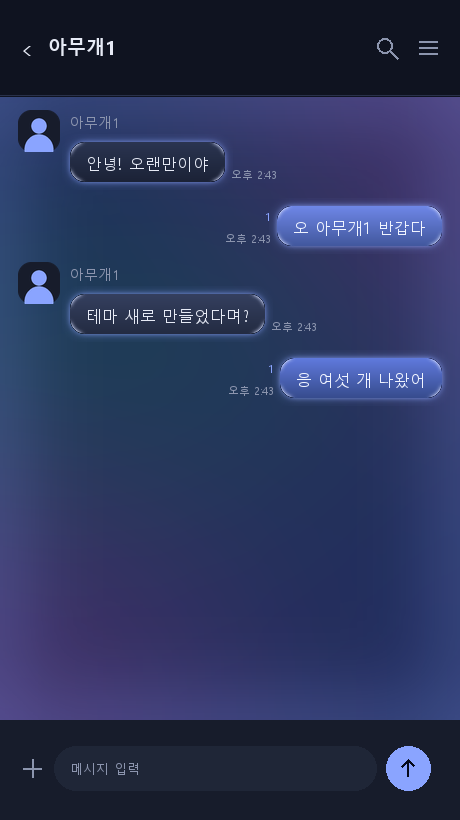
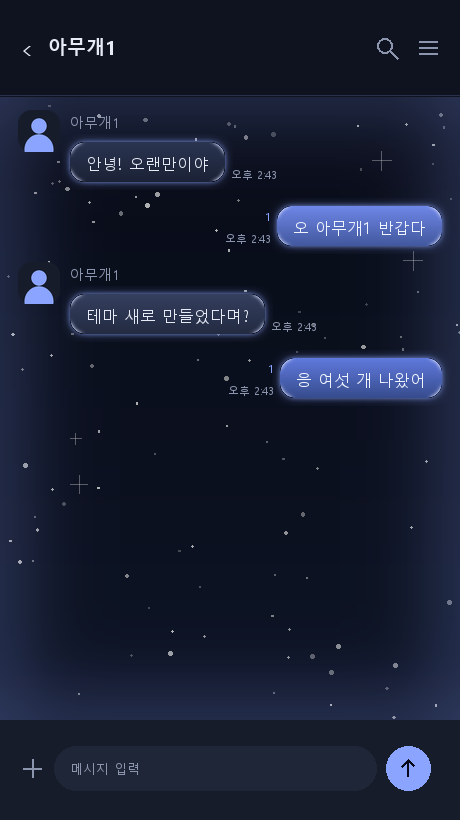
심야 배경을 색면에서 그림으로 바꾼다
배경 이미지라고 해놓고 흐린 색면을 깔고 있었다. 그림을 기대하는 게 당연한데
그라데이션만 있었다.

밤하늘을 그린다. 별을 뿌리고 밝은 몇 개에는 십자 광채를 주고, 초승달에 달무리를
얹고, 능선을 세 겹으로 깐다. 사진은 저작권 때문에 못 쓰니 코드로 그린다.

시드를 고정했다. 안 그러면 빌드할 때마다 별자리가 바뀌어서 diff 가 매번 더러워진다.

화면마다 다르게 쓴다. 잠금화면은 글자가 적으니 달과 능선까지 다 그리고, 채팅방과
목록은 말풍선과 글자가 얹히므로 별만 두고 어둡게 덮는다.

diff --git a/tools/gen.py b/tools/gen.py
@@ -11,6 +11,7 @@ iOS 와 안드로이드는 같은 그림을 다른 형식으로 요구한다.
   Android 9-patch 한 장. 늘어나는 범위를 이미지 1픽셀 테두리에 그려 넣는다.
 """
 import os
+import random
 import re
 import shutil
 import sys
@@ -204,8 +205,93 @@ def splash(t, w, h):
     return Image.alpha_composite(img, glow).convert('RGB')
 
 
+def scene_night(spec, w, h):
+    """밤하늘. 별과 달과 능선을 그린다.
+
+    사진을 가져다 쓸 수 없으니(저작권) 코드로 그린다.
+    시드를 고정한다 — 안 그러면 빌드할 때마다 별자리가 바뀌어서 diff 가 매번 더러워진다.
+
+    spec = ('night', 위색, 아래색, 옵션dict)
+      moon   달 색. None 이면 안 그림
+      ridge  능선 색. None 이면 안 그림
+      stars  별 개수
+      dim    0~1. 클수록 어둡게 덮는다. 글자가 얹히는 화면은 올린다
+    """
+    o = spec[3] if len(spec) > 3 else {}
+    img = vgradient(w, h, rgb(spec[1]), rgb(spec[2])).convert('RGB')
+    d = ImageDraw.Draw(img, 'RGBA')
+    rnd = random.Random(20260912)
+    unit = w / 500.0
+
+    horizon = h * (0.72 if o.get('ridge') else 1.0)
+    for _ in range(o.get('stars', 220)):
+        x, y = rnd.random() * w, rnd.random() * horizon
+        # 위쪽일수록 촘촘하게 보이도록 아래쪽 별은 솎아낸다
+        if rnd.random() < (y / horizon) * 0.5:
+            continue
+        r = rnd.choice([0.6, 0.7, 0.9, 1.1, 1.5, 2.0]) * unit
+        a = rnd.randint(70, 240)
+        d.ellipse([x - r, y - r, x + r, y + r], fill=(255, 255, 255, a))
+
+    # 밝은 별 몇 개에는 십자 광채를 준다. 전부 주면 지저분하다
+    for _ in range(o.get('glints', 7)):
+        x, y = rnd.random() * w, rnd.random() * horizon * 0.8
+        L = rnd.uniform(5, 11) * unit
+        for dx, dy in ((L, 0), (0, L)):
+            d.line([(x - dx, y - dy), (x + dx, y + dy)], fill=(255, 255, 255, 110),
+                   width=max(1, int(unit)))
+
+    moon = o.get('moon')
+    if moon:
+        mx, my = w * o.get('moon_x', 0.72), h * o.get('moon_y', 0.17)
+        mr = w * o.get('moon_r', 0.085)
+        halo = Image.new('RGBA', (w, h), (0, 0, 0, 0))
+        hd = ImageDraw.Draw(halo)
+        for i in range(40, 0, -1):
+            rr = mr * (1 + i * 0.14)
+            hd.ellipse([mx - rr, my - rr, mx + rr, my + rr],
+                       fill=rgb(moon) + (int(30 * (1 - i / 40) ** 2),))
+        img = Image.alpha_composite(img.convert('RGBA'), halo).convert('RGB')
+        d = ImageDraw.Draw(img, 'RGBA')
+
+        disc = Image.new('RGBA', (w, h), (0, 0, 0, 0))
+        dd = ImageDraw.Draw(disc)
+        dd.ellipse([mx - mr, my - mr, mx + mr, my + mr], fill=rgb(moon) + (255,))
+        if o.get('crescent', True):
+            # 살짝 겹친 원으로 지워서 초승달을 만든다
+            off = mr * 0.55
+            dd.ellipse([mx - mr + off, my - mr - off * 0.3,
+                        mx + mr + off, my + mr - off * 0.3], fill=(0, 0, 0, 0))
+        img = Image.alpha_composite(img.convert('RGBA'), disc).convert('RGB')
+        d = ImageDraw.Draw(img, 'RGBA')
+
+    ridge = o.get('ridge')
+    if ridge:
+        for layer, (base_y, shade, seed) in enumerate(
+                ((0.80, 0.55, 3), (0.88, 0.28, 9), (0.95, 0.0, 17))):
+            r2 = random.Random(seed)
+            pts = [(0, h)]
+            x = 0.0
+            y = h * base_y
+            while x < w:
+                x += w * r2.uniform(0.06, 0.16)
+                y = h * base_y + h * r2.uniform(-0.055, 0.055)
+                pts.append((min(x, w), y))
+            pts += [(w, h)]
+            c = rgb(ridge)
+            c = tuple(round(v + (255 - v) * shade * 0.12) for v in c)
+            d.polygon(pts, fill=c + (255,))
+
+    dim = o.get('dim', 0.0)
+    if dim:
+        img = Image.blend(img, Image.new('RGB', (w, h), (0, 0, 0)), dim)
+    return img
+
+
 def chat_bg(spec, w, h):
     kind = spec[0]
+    if kind == 'night':
+        return scene_night(spec, w, h)
     if kind == 'linear':
         return vgradient(w, h, rgb(spec[1]), rgb(spec[2]))
     if kind == 'blobs':

diff --git a/tools/themes.py b/tools/themes.py
@@ -38,7 +38,7 @@ chat_bg
   None 이면 단색. ('linear', 위, 아래) 또는 ('aurora', 바탕, [색...]) 이면 이미지를 그린다.
 """
 
-VERSION = '0.12'
+VERSION = '0.13'
 
 THEMES = [
     dict(
@@ -141,7 +141,7 @@ THEMES = [
     ),
     dict(
         key='midnight11', name='심야',
-        note='배경 이미지를 세 화면에 다 깐 테마. 목록·채팅방·잠금화면이 각각 다름',
+        note='밤하늘을 그려 넣은 테마. 잠금화면에 달과 능선이 나옴',
         bg='#0F1320', bg_deep='#080B14', surface='#171C2B', pressed='#1F2637',
         border='#29314A', text='#E6EAF5', subtext='#8C95AE',
         accent='#8AA4FF', accent_dim='#5C76D6', on_accent='#060A1A',
@@ -149,9 +149,15 @@ THEMES = [
         recv=('#2A3450', '#1B2236'), recv_alt=('#343F5E', '#232B42'),
         send_text='#F0F4FF', recv_text='#E6EAF5',
         glow=('#8AA4FF', 130, 8),
-        chat_bg=('blobs', '#080B14', ['#2A3A7A', '#5B3E8C', '#1E5A6E']),
-        main_bg=('linear', '#0F1320', '#161C2E'),
-        passcode_bg=('blobs', '#060912', ['#3B4FA0', '#6A4AA0', '#204F63']),
+        # 잠금화면은 글자가 적으니 달과 능선까지 다 그린다.
+        # 채팅방은 말풍선이 얹히므로 별만 두고 어둡게 덮는다.
+        chat_bg=('night', '#0B1020', '#121A30',
+                 dict(stars=150, glints=4, moon=None, ridge=None, dim=0.25)),
+        main_bg=('night', '#0D1222', '#151B2E',
+                 dict(stars=110, glints=3, moon=None, ridge=None, dim=0.35)),
+        passcode_bg=('night', '#070B18', '#16203C',
+                     dict(stars=260, glints=8, moon='#E8ECFF', ridge='#05070F',
+                          moon_x=0.74, moon_y=0.16, moon_r=0.09)),
     ),
 ]
 

diff --git a/docs/spec.md b/docs/spec.md
@@ -92,11 +92,15 @@
 | **색 덩어리 배경** | 큰 원을 뿌리고 크게 흐림 (`blobs`) | 유리 둘 |
 | **선형 배경** | 위아래 두 색 (`linear`) | 벚꽃, 캔디 팝 |
 | **오로라 배경** | 색 띠를 겹치고 크게 흐림 (`aurora`) | 오로라 |
+| **밤하늘 그림** | 별·십자 광채·초승달·능선을 직접 그림 (`night`) | 심야 |
 | **가장자리 빛** | 화면 테두리에서 안쪽으로 번지는 빛 | 글로우 있는 테마 |
 | **네 칸 다른 색** | 보통/눌림/그룹 칸에 서로 다른 색 | 믹스드, 캔디 팝 |
 
+배경은 두 갈래임 — **색면**(`linear` / `blobs` / `aurora`)과 **그림**(`night`).
+사진은 저작권 때문에 못 씀. 필요한 그림은 코드로 그림. 시드를 고정해서 빌드할 때마다 바뀌지 않게 함.
+
 아직 안 해본 것: **패턴·질감**(격자·노이즈·도트), **테두리만 있는 말풍선**(속 비우기),
-**꼬리 달린 말풍선**, **그림자**.
+**꼬리 달린 말풍선**, **그림자**, 밤하늘 말고 다른 **그림**(바다·숲·도시 실루엣 등).
 
 ---
 

diff --git a/README.md b/README.md
@@ -51,7 +51,7 @@
 </tr>
 <tr>
 <td align="center"><b><a href="#리퀴드-글래스-다크">리퀴드 글래스 다크</a></b><br>같은 유리를 어두운 쪽으로. 빛이 유리 모서리에만 걸림</td>
-<td align="center"><b><a href="#심야">심야</a></b><br>배경 이미지를 세 화면에 다 깐 테마. 목록·채팅방·잠금화면이 각각 다름</td>
+<td align="center"><b><a href="#심야">심야</a></b><br>밤하늘을 그려 넣은 테마. 잠금화면에 달과 능선이 나옴</td>
 </tr>
 </table>
 
@@ -141,7 +141,7 @@
 
 <img src="docs/preview-midnight11-list.png" width="200"> <img src="docs/preview-midnight11-chat.png" width="200"> <img src="docs/preview-midnight11-passcode.png" width="200"> <img src="docs/preview-midnight11-splash.png" width="200">
 
-배경 이미지를 세 화면에 다 깐 테마. 목록·채팅방·잠금화면이 각각 다름.
+밤하늘을 그려 넣은 테마. 잠금화면에 달과 능선이 나옴.
 
 <!-- THEMES:END -->
 
